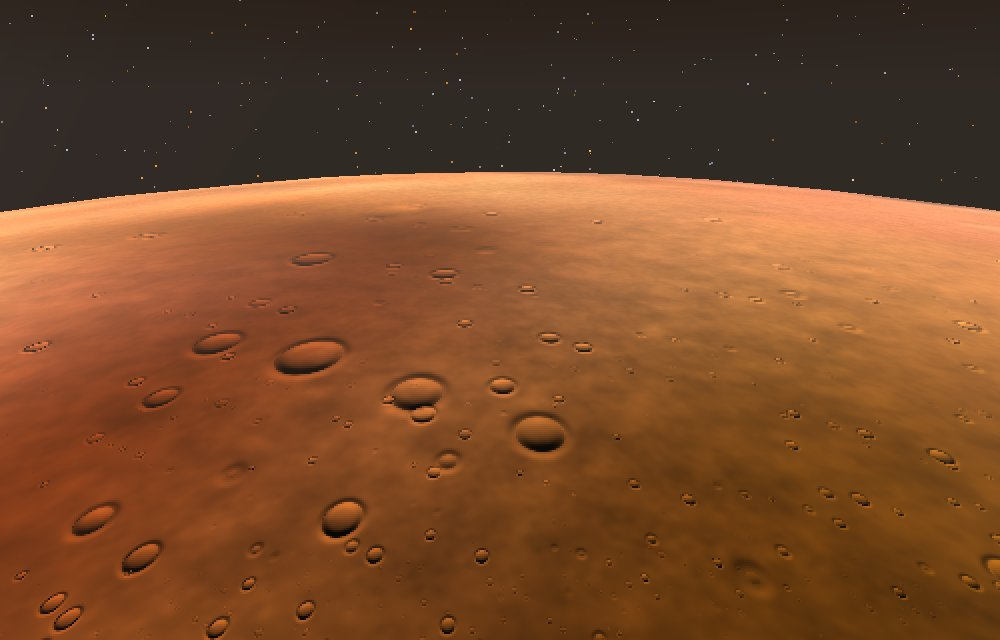
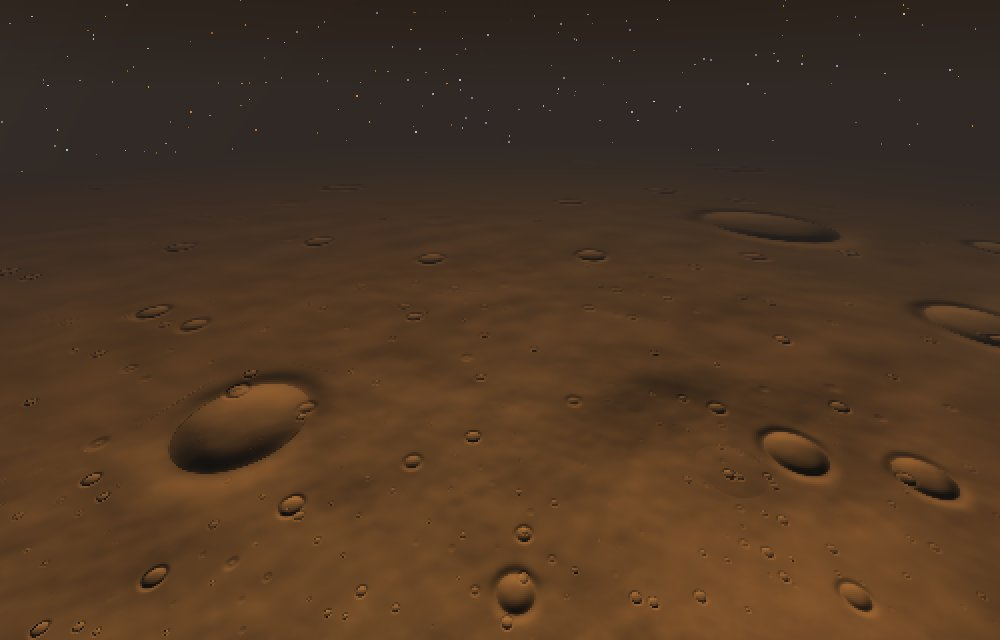
notes: the ground from the air, as drawn now
Claude-Session: https://claude.ai/code/session_01LW78L9UQzbYT32qWeWio11

diff --git a/notes/Feedback/2026-10-05.md b/notes/Feedback/2026-10-05.md
@@ -23,11 +23,11 @@ Done.
 - It's the ship as the game builds it: outside, and every room inside.
 - When the ship changes, `node tools/export-ship.mjs` makes them again.
 
-**Textures from orbit and from the air (32e87c0):**
+**Textures from orbit and from the air (32e87c0, 63f1c84):**
 - **Coasts:** the Earth's coasts were staircases of 39 km blocks. They now come from coastline data four times finer (about 10 km), so Sicily, the Greek islands, Crete, Cyprus and the Red Sea show. Close to the Earth the shore is drawn sharper than the map itself. Canaveral Base moved a few kilometres north to stay on dry land.
 - **Detail close to a world:** finer than its map, with hills and hollows, and craters where a world keeps them. The Moon and other airless worlds are cratered at every size, Mars somewhat; the Earth, Venus, Titan and Io have none.
 - **From the air:** a couple of kilometres up and higher, the ground has relief and craters from kilometres down to tens of metres, where before it was one flat colour.
-- **Cost:** none of it slows the game. From the air frames are faster than before, and from orbit about the same.
+- **Cost:** frames from the air and from orbit are within a few percent of before.
 
 The Earth from 400 km, before and after:
 ![Before: staircase coasts](../attachments/2026-10-05-orbit-earth-before.jpg)
@@ -39,7 +39,7 @@ The Moon from 150 km, before and after, and from 1,000 km:
 ![After: cratered](../attachments/2026-10-05-orbit-moon-after.jpg)
 ![The Moon from 1,000 km](../attachments/2026-10-05-orbit-moon-far.jpg)
 
-From the air: Mars from 20 km, the Sahara from 30 km:
+From the air: the Moon from 5 km (a crater forty kilometres across, with smaller ones in it), and Mars from 20 km:
+![The Moon from 5 km](../attachments/2026-10-05-air-moon.jpg)
 ![Mars from 20 km](../attachments/2026-10-05-air-mars.jpg)
-![The Sahara from 30 km](../attachments/2026-10-05-air-sahara.jpg)
 

diff --git a/notes/Built.md b/notes/Built.md
@@ -2,7 +2,7 @@
 
 What's in the game, newest first. The README has the full description.
 
-- **Worlds from orbit and from the air**: sharp coasts from 10 km coastline data; detail below the map's grain close to a world, craters on airless ground all the way down; the ground from the air in relief (32e87c0); [pictures](Feedback/2026-10-05.md#textures-from-orbit-and-the-ships-model-to-download)
+- **Worlds from orbit and from the air**: sharp coasts from 10 km coastline data; detail below the map's grain close to a world, craters on airless ground all the way down; the ground from the air in relief (32e87c0, 63f1c84); [pictures](Feedback/2026-10-05.md#textures-from-orbit-and-the-ships-model-to-download)
 - **The ship's 3D model** to download, GLB and USDZ, at https://idoadjadjajdada.github.io/Orbital/ship/ (c310445)
 - **Docking that catches the station**: Dock chases a station round its orbit and docks; within 10 km the ship goes round with the station, so you can fly to its port by hand (21c210e)
 - **The ship's new look**: shining plates with their seams in relief, a darker belly, strobes, roof fittings; inside, guide lights, rails, ribs and cove lights (6039531); [pictures](Feedback/2026-10-04.md#gravity-the-ships-looks-and-the-map)

diff --git a/notes/Roadmap.md b/notes/Roadmap.md
@@ -13,7 +13,7 @@ What's next, in order. Move things up or down; tick them when done.
 - [ ] The hangar's own rover model stays visible after the rover drives out: hide it while it's out
 - [x] Add interior to orbiting stations: reachable from Mission Control (Dock, then Go aboard) (62bddbc). ([message](Feedback/2026-10-04.md#feature-add-interior-to-orbiting-stations))
 - [x] Better textures in general and specifically on the land of planets and things. ([message](Feedback/2026-10-04.md#feature-better-textures-in-general-and-specifically-on-the-land-of-planets-and-things)) Done for the land close up (fa4f147, 4d02d5c).
-- [x] Better textures seen from orbit and from the air: the rest of "better textures in general" (32e87c0) ([message](Feedback/2026-10-05.md#textures-from-orbit-and-the-ships-model-to-download))
+- [x] Better textures seen from orbit and from the air: the rest of "better textures in general" (32e87c0, 63f1c84) ([message](Feedback/2026-10-05.md#textures-from-orbit-and-the-ships-model-to-download))
 - [x] The ship's 3D model as a file to download (c310445) ([message](Feedback/2026-10-05.md#textures-from-orbit-and-the-ships-model-to-download))
 
 ## Later
